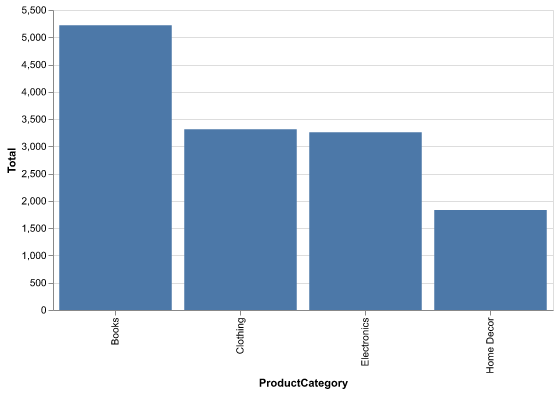
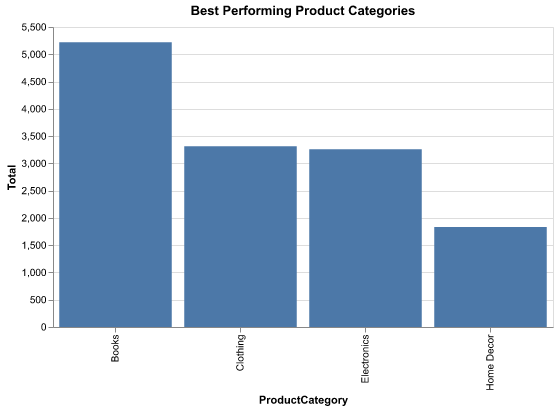
feat: Exploring polars

diff --git a/08_exploring_polars/main.py b/08_exploring_polars/main.py
@@ -58,10 +58,13 @@ def main():
     bar = best_performing_categories.plot.bar(
         x="ProductCategory",
         y="Total",
-    ).properties(width=500)
+    ).properties(
+        width=500,
+        title="Best Performing Product Categories",
+    )
     bar.save(f"{__dir__}/bar.png")
 
-    # scatter
+    # scatter plot of transactions
     scatter = (
         data.collect()
         .plot.scatter(
@@ -69,7 +72,10 @@ def main():
             y="TransactionDate",
             color="ProductCategory",
         )
-        .properties(width=750)
+        .properties(
+            width=750,
+            title="Transactions",
+        )
     )
     scatter.save(f"{__dir__}/scatter.png")
 
